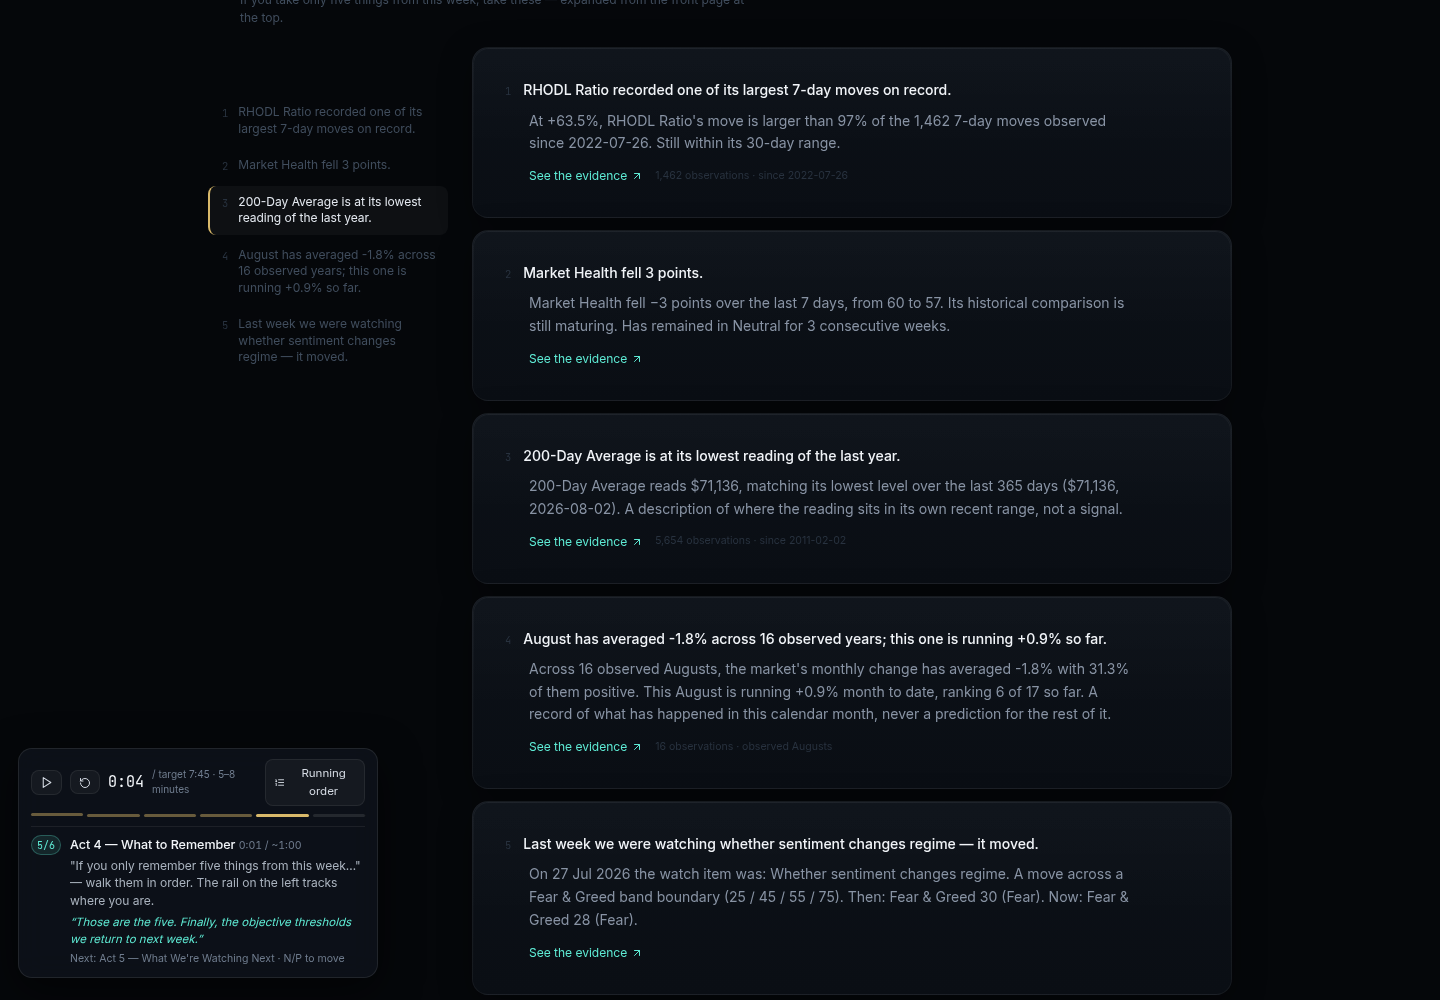
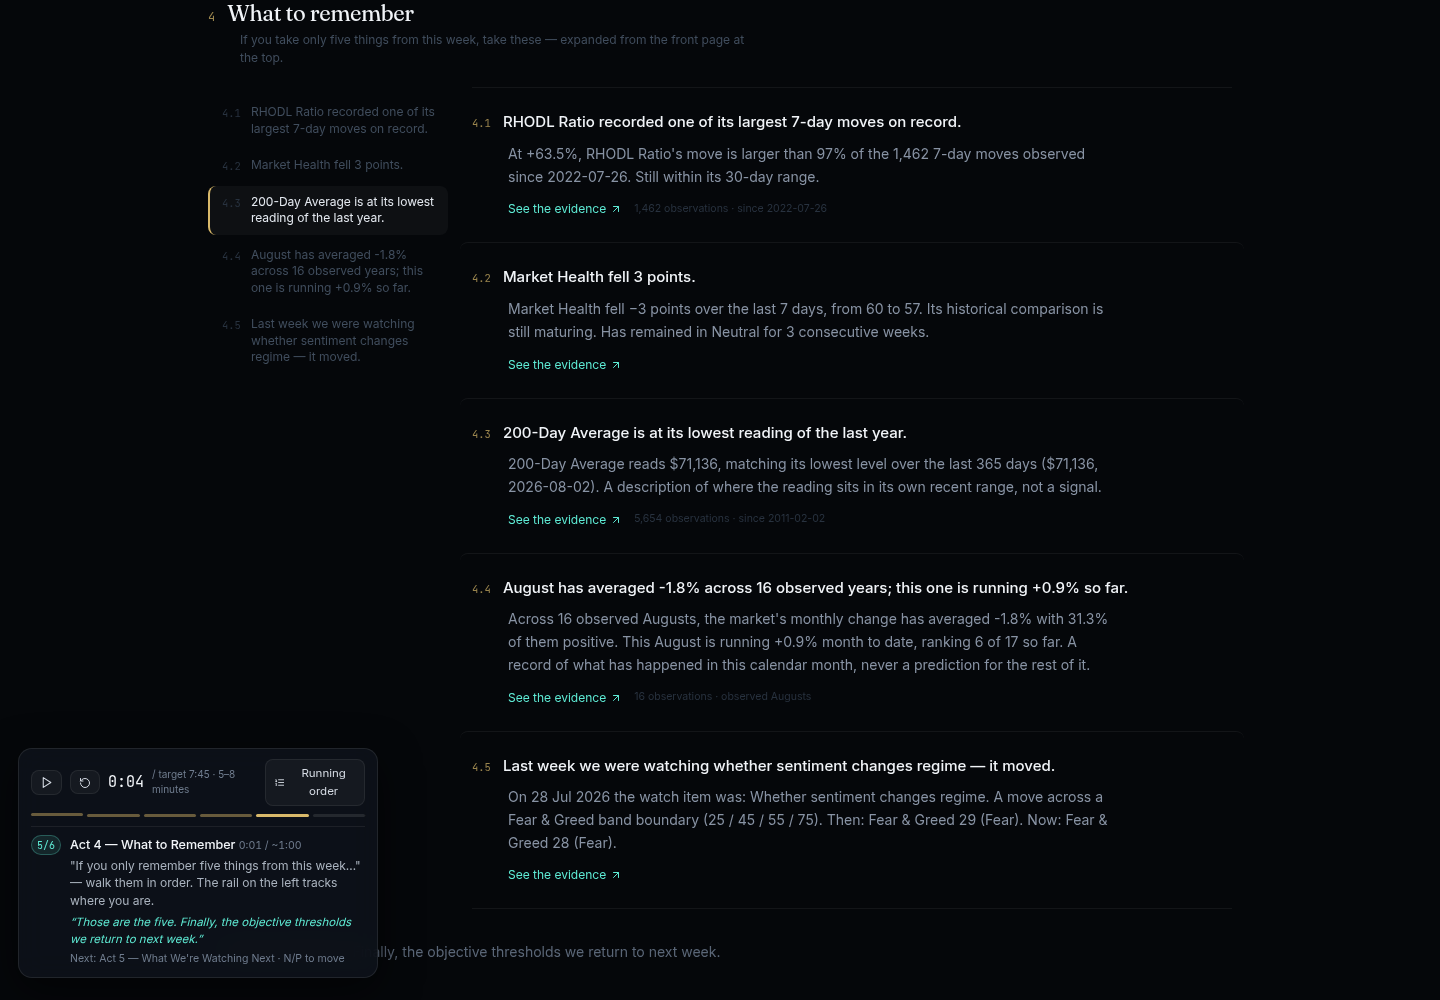
SB6b: the surface — front page restyle, unboxing, act seams, 4.1-4.5
Second Editorial Excellence pass. Hierarchy now comes from typography,
spacing and alignment — not borders or backgrounds.

- WeekAtAGlance — the box, row backgrounds and hover fills are gone.
  Hairlines separate the five rows; the ANSWERS are set in the display
  serif (subhead), so the front page's typography carries it; act
  numerals in editorial gold. Still five deep links, still inside the
  first screen (bottom 919px at 1440x1000).
- Orientation strip — four proud numbers with micro labels over a
  single hairline, replacing the boxed grid-on-grid.
- Act seams — each act opens with its own air (pt-2 lg:pt-10 on the
  act, not on the container, so the masthead-to-Act-0 gap is unchanged
  and the five answers stay above the fold).
- Act 4 — the five expansion cards become open prose separated by
  hairlines; the flash affordance becomes a soft editorial wash; point
  numerals become 4.1-4.5 in gold on the page, the rail AND the episode
  script, so "point 4.3" has exactly one meaning on a recording. Act
  numerals unify to 1-5.
- Colour roles — the 7-day price direction now uses signal green
  (data), not interactive teal.

Cards on the page: 25 -> 20. Rail tracking, flash + focus, glance
anchors, HUD walk and copyable script all re-verified in browser;
heading outline OK across 50 routes.

Claude-Session: https://claude.ai/code/session_018WUmjuY9VG93brMbUxseGC

diff --git a/src/app/state-of-bitcoin/page.tsx b/src/app/state-of-bitcoin/page.tsx
@@ -70,7 +70,7 @@ const JSON_LD = {
 };
 
 const DATA_STATUS: Record<string, "live" | "live-derived" | "coming-soon"> = { live: "live", mixed: "live-derived", synthetic: "coming-soon" };
-const TONE: Record<"good" | "bad" | "neutral", string> = { good: "text-accent", bad: "text-signal-red", neutral: "text-ink-300" };
+const TONE: Record<"good" | "bad" | "neutral", string> = { good: "text-signal-green", bad: "text-signal-red", neutral: "text-ink-300" };
 
 function fmtSignedPct(n: number): string {
   const digits = Math.abs(n) >= 10 ? 0 : 1;
@@ -143,7 +143,7 @@ export default function SnapshotPage({ searchParams }: { searchParams: { present
             fold in the original order. */}
         <div className="flex flex-col">
         {/* Compact orientation strip — the current position at a glance */}
-        <div className="order-2 sm:order-1 mt-6 grid grid-cols-2 sm:grid-cols-4 gap-px rounded-xl border border-white/[0.06] bg-white/[0.06] overflow-hidden">
+        <div className="order-2 sm:order-1 mt-6 pt-5 border-t border-white/[0.09] grid grid-cols-2 sm:grid-cols-4 gap-x-8 gap-y-5">
           <TodayStat
             label="Bitcoin price"
             value={fmtUsd(price.current)}
@@ -178,9 +178,9 @@ export default function SnapshotPage({ searchParams }: { searchParams: { present
       </section>
 
       {/* ── What changed — the Market Snapshot ── */}
-      <section data-sob-section="movers" id="movers">
+      <section data-sob-section="movers" id="movers" className="pt-2 lg:pt-10">
         <SectionHead
-          n="01"
+          n="1"
           title="What changed"
           note="Every HalvingLens reading, ranked by how unusual its move is within its own history — not by raw percentage."
         />
@@ -189,8 +189,8 @@ export default function SnapshotPage({ searchParams }: { searchParams: { present
       </section>
 
       {/* ── ACT 2 — Why this matters ── */}
-      <section data-sob-section="why" id="why">
-        <SectionHead n="02" title="Why this matters" note="Where the week leaves the market against its Four Reference Prices, and the chart that best captures it. Concurrence, not causation — and whether any of it is unusual is the next act's question." />
+      <section data-sob-section="why" id="why" className="pt-2 lg:pt-10">
+        <SectionHead n="2" title="Why this matters" note="Where the week leaves the market against its Four Reference Prices, and the chart that best captures it. Concurrence, not causation — and whether any of it is unusual is the next act's question." />
         <ReferencePrices />
         <div className="mt-8">
           <LeadChart pick={cotw} />
@@ -199,8 +199,8 @@ export default function SnapshotPage({ searchParams }: { searchParams: { present
       </section>
 
       {/* ── Section 6 — Historical Context ── */}
-      <section data-sob-section="unusual" id="unusual">
-        <SectionHead n="03" title="How unusual is it?" note="This week measured against the record: where the cycle stands, the closest historical match, and how prior cycles behaved from here." />
+      <section data-sob-section="unusual" id="unusual" className="pt-2 lg:pt-10">
+        <SectionHead n="3" title="How unusual is it?" note="This week measured against the record: where the cycle stands, the closest historical match, and how prior cycles behaved from here." />
         <div className="mb-8">
           <WhereAreWe />
         </div>
@@ -253,15 +253,15 @@ export default function SnapshotPage({ searchParams }: { searchParams: { present
 
 
       {/* ── What to remember — the five points, expanded ── */}
-      <section data-sob-section="matters" id="matters">
-        <SectionHead n="04" title="What to remember" note="If you take only five things from this week, take these — expanded from the front page at the top." />
+      <section data-sob-section="matters" id="matters" className="pt-2 lg:pt-10">
+        <SectionHead n="4" title="What to remember" note="If you take only five things from this week, take these — expanded from the front page at the top." />
         <WeekInFiveExpanded data={five} />
         <ActBridge text={brief.bridges[4]} />
       </section>
 
       {/* ── What we're watching next ── */}
-      <section data-sob-section="watching" id="watching">
-        <SectionHead n="05" title="What we're watching next" note="The objective thresholds we'll return to next week — observations, not predictions." />
+      <section data-sob-section="watching" id="watching" className="pt-2 lg:pt-10">
+        <SectionHead n="5" title="What we're watching next" note="The objective thresholds we'll return to next week — observations, not predictions." />
         {brief.previousWatch && (
           <div className="card p-5 mb-4">
             <div className="eyebrow text-ink-500 mb-1.5">Last week we were watching</div>
@@ -357,10 +357,10 @@ function SectionHead({ n, title, note }: { n: string; title: string; note: strin
 
 function TodayStat({ label, value, sub }: { label: string; value: string; sub?: React.ReactNode }) {
   return (
-    <div className="bg-[#0b0f15] px-4 py-4">
+    <div>
       <div className="eyebrow text-ink-500">{label}</div>
-      <div className="mt-1 font-display text-headline text-ink-50 tabular-nums leading-tight">{value}</div>
-      {sub && <div className="mt-0.5 text-micro text-ink-400 leading-tight">{sub}</div>}
+      <div className="mt-1.5 font-display text-headline text-ink-50 tabular-nums leading-tight">{value}</div>
+      {sub && <div className="mt-1 text-micro text-ink-400 leading-tight">{sub}</div>}
     </div>
   );
 }

diff --git a/src/components/sob/WeekInFive.tsx b/src/components/sob/WeekInFive.tsx
@@ -85,7 +85,7 @@ export function WeekInFiveExpanded({ data }: { data: WeekInFiveData }) {
                     on ? "border-l-editorial bg-white/[0.04] text-ink-100" : "border-l-transparent text-ink-500 hover:text-ink-300"
                   }`}
                 >
-                  <span className="text-micro font-mono text-ink-600 mt-0.5">{p.rank}</span>
+                  <span className="text-micro font-mono text-ink-600 mt-0.5 shrink-0">4.{p.rank}</span>
                   <span className="text-caption leading-snug line-clamp-3">{p.headline}</span>
                 </button>
               </li>
@@ -93,7 +93,7 @@ export function WeekInFiveExpanded({ data }: { data: WeekInFiveData }) {
           })}
         </ol>
       </nav>
-      <div className="space-y-3">
+      <div className="divide-y divide-white/[0.06] border-y border-white/[0.06]">
         {data.points.map((p) => (
           <PointCard key={p.id} p={p} onMount={(el) => { refs.current[p.id] = el; }} />
         ))}
@@ -109,14 +109,14 @@ function PointCard({ p, onMount }: { p: TalkingPoint; onMount?: (el: HTMLElement
       data-point-id={p.id}
       ref={onMount}
       tabIndex={-1}
-      className="card p-5 scroll-mt-24 data-[tp-flash=true]:ring-1 data-[tp-flash=true]:ring-editorial/50 transition-shadow outline-none"
+      className="py-6 px-3 -mx-3 rounded-lg scroll-mt-24 data-[tp-flash=true]:bg-editorial/[0.05] transition-colors outline-none"
     >
       <div className="flex items-baseline gap-3">
-        <span className="text-micro font-mono text-ink-600 shrink-0">{p.rank}</span>
-        <h3 className="text-body font-medium text-ink-50 leading-snug">{p.headline}</h3>
+        <span className="text-micro font-mono text-editorial/70 shrink-0">4.{p.rank}</span>
+        <h3 className="text-subhead font-medium text-ink-50 leading-snug">{p.headline}</h3>
       </div>
-      <p className="mt-2.5 ml-6 text-body text-ink-300 leading-relaxed max-w-measure">{p.expanded}</p>
-      <div className="mt-3 ml-6 flex items-center gap-3 flex-wrap">
+      <p className="mt-2.5 ml-9 text-body text-ink-300 leading-relaxed max-w-measure">{p.expanded}</p>
+      <div className="mt-3 ml-9 flex items-center gap-3 flex-wrap">
         <Link href={p.href} className="inline-flex items-center gap-1 text-caption text-accent hover:text-accent-soft transition-colors">
           See the evidence
           <ArrowUpRight className="w-3 h-3" aria-hidden />

diff --git a/src/components/sob/WeekAtAGlance.tsx b/src/components/sob/WeekAtAGlance.tsx
@@ -16,18 +16,21 @@ export function WeekAtAGlance({ rows }: { rows: GlanceRow[] }) {
       <div className="eyebrow text-editorial mb-3">
         The week at a glance
       </div>
-      <ol className="rounded-xl border border-white/[0.07] overflow-hidden divide-y divide-white/[0.05]">
+      {/* Hierarchy from typography, spacing and alignment — no box, no row
+          backgrounds. The answers carry the front page in the display serif;
+          hairlines do the separating. */}
+      <ol className="divide-y divide-white/[0.06] border-y border-white/[0.06]">
         {rows.map((r) => (
           <li key={r.question}>
             <button
               onClick={() => go(r.anchor)}
-              className="w-full text-left px-4 py-3 bg-[#0b0f15] hover:bg-white/[0.03] transition-colors group flex flex-col sm:flex-row sm:items-baseline gap-1 sm:gap-4"
+              className="w-full text-left py-3 group flex flex-col sm:flex-row sm:items-baseline gap-1 sm:gap-4"
             >
               <span className="eyebrow text-ink-500 sm:w-52 shrink-0 flex items-baseline gap-2">
-                <span className="font-mono text-micro text-ink-600">{r.act}</span>
+                <span className="font-mono text-micro text-editorial/70">{r.act}</span>
                 {r.label}
               </span>
-              <span className="text-body text-ink-200 leading-relaxed group-hover:text-ink-50 transition-colors">
+              <span className="font-display text-subhead text-ink-100 leading-relaxed group-hover:text-ink-50 transition-colors">
                 {r.answer}
               </span>
             </button>

diff --git a/src/lib/presenterEpisode.ts b/src/lib/presenterEpisode.ts
@@ -60,7 +60,9 @@ export function presenterEpisode(): string {
       for (const m of top) push(`  • ${m.label} ${formatMovement(m)} — ${rarityLine(m)}`);
     }
     if (s.id === "matters") {
-      for (const p of b.points.points) push(`  ${p.rank}. ${p.headline}`);
+      // The page numbers these 4.1-4.5, so "point 4.3" has one meaning on a
+      // recording — the script speaks the same language.
+      for (const p of b.points.points) push(`  4.${p.rank} ${p.headline}`);
     }
     if (s.id === "watching") {
       if (b.previousWatch) {
